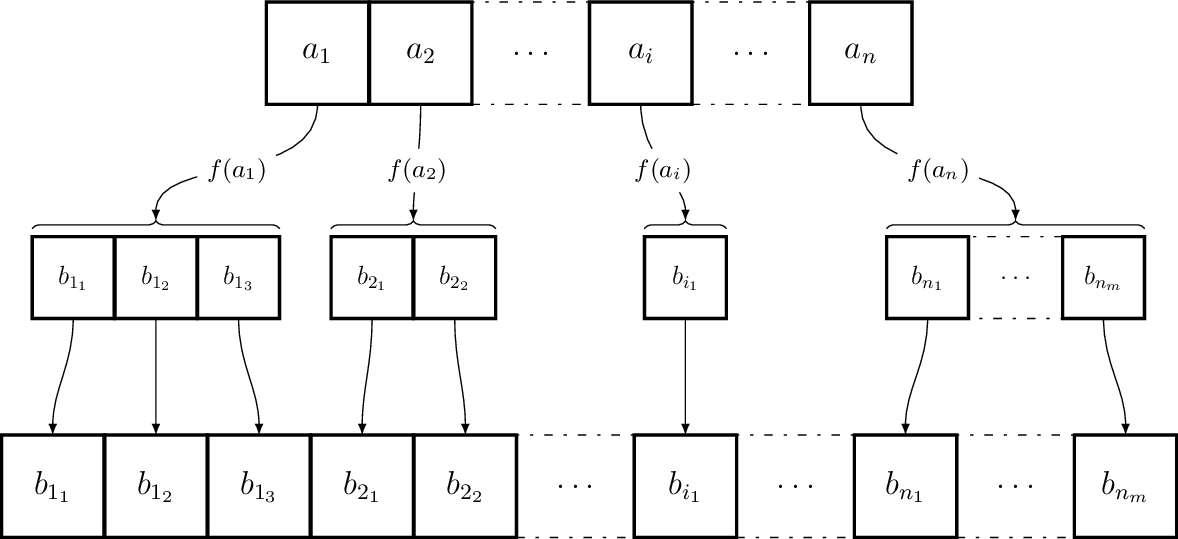
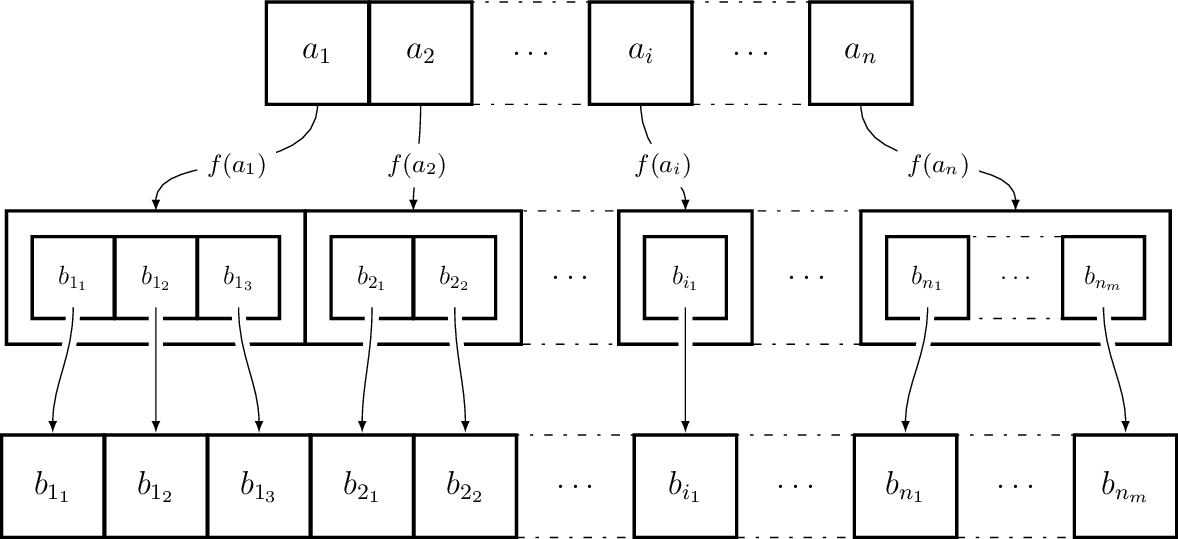
a more accurated flatMap diagram

diff --git a/src/images/flatMap.tex b/src/images/flatMap.tex
@@ -1,17 +1,17 @@
 \input{_header.tex}
 
 \matrix (B) [collection, name prefix=b] {
-  \node (11) {$b_{1_1}$};   &
-  \node (12) {$b_{1_2}$};   &
-  \node (13) {$b_{1_3}$};   &
-  \node (21) {$b_{2_1}$}; &
-  \node (22) {$b_{2_2}$}; &
-  \ellipsis                &
-  \node (i1) {$b_{i_1}$}; &
-  \ellipsis                &
-  \node (n1) {$b_{n_1}$}; &
+  \node (11) {$b_{1_1}$};     &
+  \node (12) {$b_{1_2}$};     &
+  \node (13) {$b_{1_3}$};     &
+  \node (21) {$b_{2_1}$};     &
+  \node (22) {$b_{2_2}$};     &
+  \ellipsis                   &
+  \node (i1) {$b_{i_1}$};     &
+  \ellipsis                   &
+  \node (n1) {$b_{n_1}$};     &
   \node (nell) [ellipsis] {}; &
-  \node (nm) {$b_{n_m}$}; \\
+  \node (nm) {$b_{n_m}$};     \\
 };
 
 \matrix (A) [collection, name prefix=a, above of=B, node distance=5.5cm] {
@@ -38,32 +38,28 @@
     \node (ai1) {$b_{i_1}$}; \\
   };
   \matrix (An) [collection, above of=anell, node distance=2.5cm] at (bnell.north) {
-    \node (an1) {$b_{n_1}$}; &
+    \node (an1) {$b_{n_1}$};  &
     \node (anell) [ellipsis]; &
-    \node (anm) {$b_{n_m}$}; \\
+    \node (anm) {$b_{n_m}$};  \\
   };
 \end{scope}
 
+\begin{scope}[on background layer]
+  \tikzstyle{every path}=[cell]
+  \draw ([shift={(-3mm, 3mm)}] A1.north west) rectangle ([shift={(3mm, -3mm)}] A1.south east);
+  \draw ([shift={(-3mm, 3mm)}] A2.north west) rectangle ([shift={(3mm, -3mm)}] A2.south east);
+  \draw ([shift={(+3mm, 3mm)}] A2.north east) [ellipsis] rectangle node {$\ldots$} ([shift={(-3mm, -3mm)}] Ai.south west);
+  \draw ([shift={(-3mm, 3mm)}] Ai.north west) rectangle coordinate (e1) ([shift={(3mm, -3mm)}] Ai.south east);
+  \draw ([shift={(+3mm, 3mm)}] Ai.north east) [ellipsis] rectangle node {$\ldots$} ([shift={(-3mm, -3mm)}] An.south west);
+  \draw ([shift={(-3mm, 3mm)}] An.north west) rectangle ([shift={(3mm, -3mm)}] An.south east);
+\end{scope}
 
-\draw [topbrace] (a11.north west) -- coordinate (fa1) (a13.north east);
-\draw [arrow, to brace, smooth] (a1) to node [arrow label] {$f(a_1)$} (fa1);
-
-\draw [topbrace] (a21.north west) -- coordinate (fa2) (a22.north east);
-\draw [arrow, to brace, smooth] (a2) to node [arrow label] {$f(a_2)$} (fa2);
-
-\draw [topbrace] (ai1.north west) -- coordinate (fai) (ai1.north east);
-\draw [arrow, to brace, smooth] (ai) to node [arrow label] {$f(a_i)$} (fai);
-
-\draw [topbrace] (an1.north west) -- coordinate (fan) (anm.north east);
-\draw [arrow, to brace, smooth] (an) to node [arrow label] {$f(a_n)$} (fan);
-
-\foreach \i in {11,12,13,21,22,i1,n1,nm} {
-  \draw [arrow, smooth] (a\i) to (b\i);
+\foreach \i in {1,2,i,n} {
+  \draw [arrow, to brace, smooth] (a\i) to node [arrow label] {$f(a_\i)$} ([yshift=1mm] A\i.north);
 }
 
-% 
-% \foreach \i in {1, 2, i, n} {
-%   \draw (a\i) [arrow] -- node [arrow label] {$f(a_{\i})$} (b\i);
-% }
+\foreach \from/\to in {a11/b11, a12/b12, a13/b13, a21/b21, a22/b22, ai1/bi1, an1/bn1, anm/bnm} {
+  \draw ([yshift=0.5em] \from.south) [arrow, smooth, white border] to (\to);
+}
 
 \input{_footer.tex}

diff --git a/src/images/_header.tex b/src/images/_header.tex
@@ -11,6 +11,8 @@
 
 \usetikzlibrary{arrows.meta}
 
+\usetikzlibrary{backgrounds}
+
 \usepackage{pifont} % for true and false symbols
 
 \begin{document}
